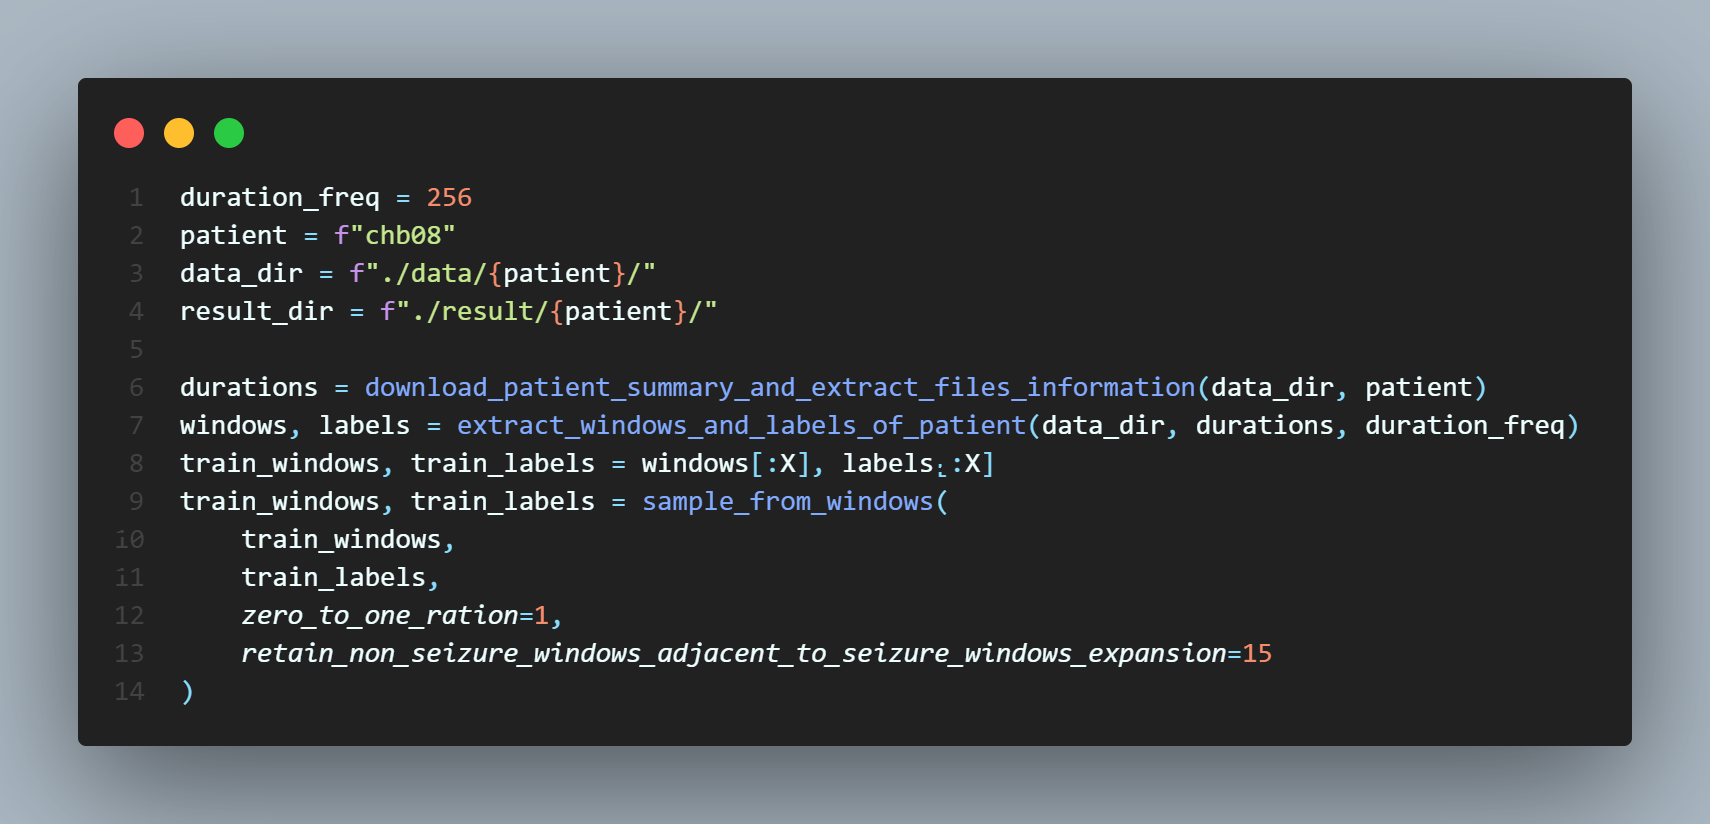
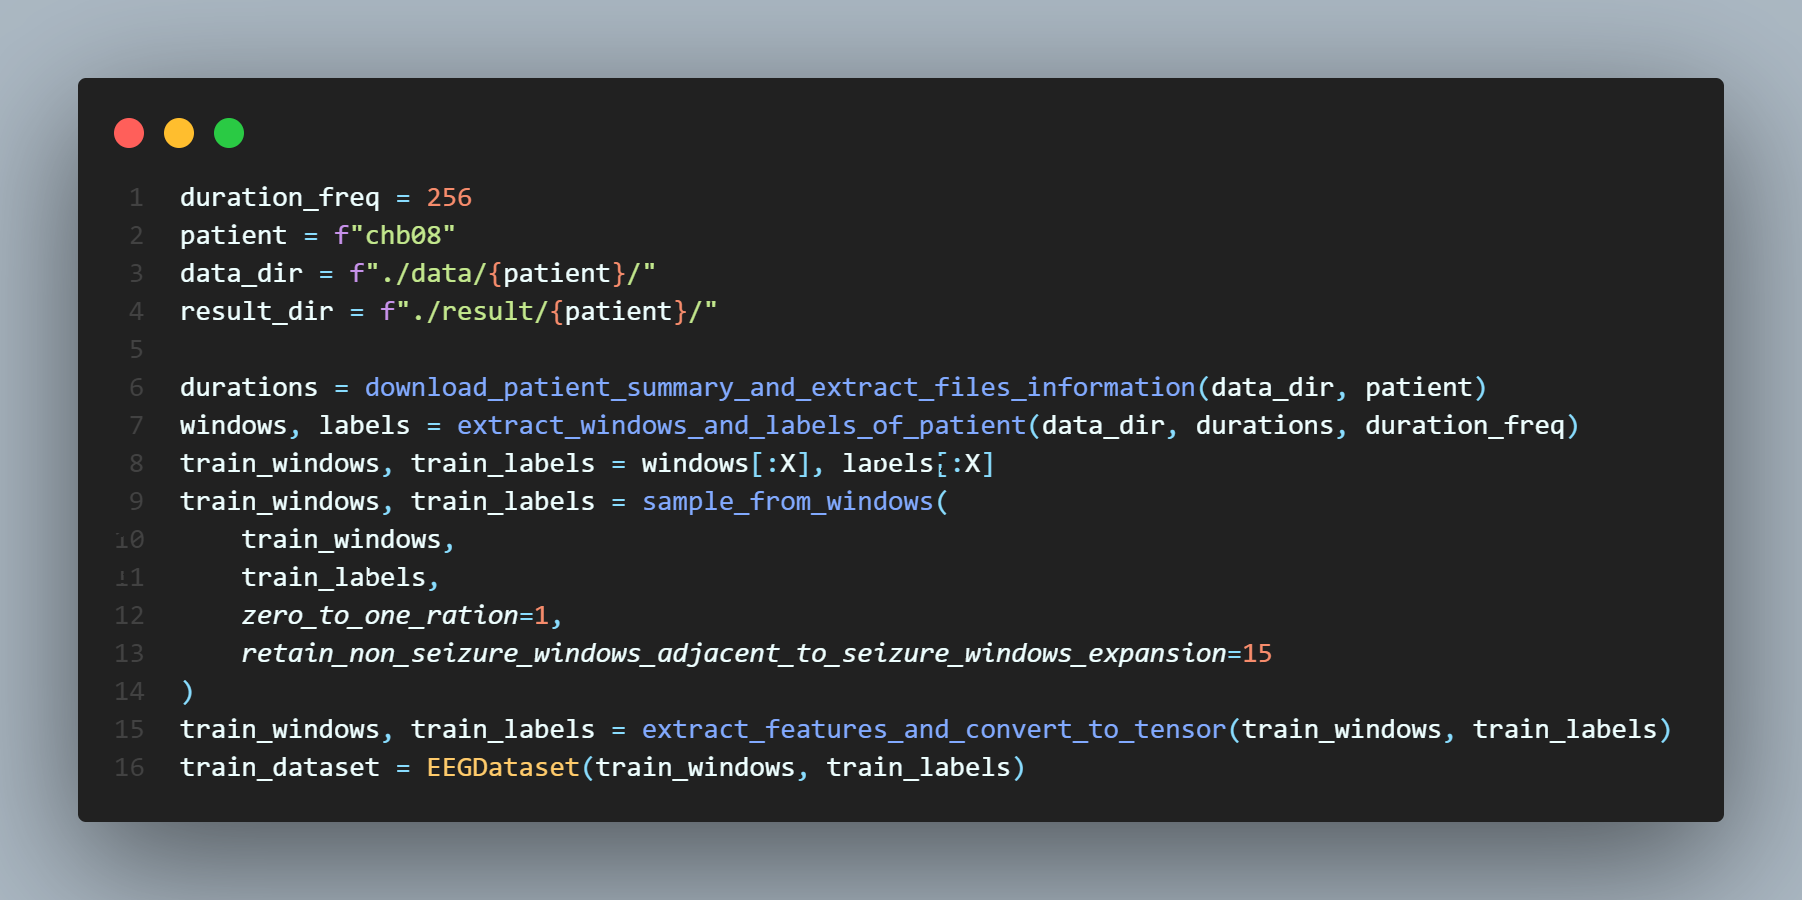
Update ReadMe

diff --git a/README.md b/README.md
@@ -4,11 +4,16 @@ Tutorial: [Link](tutorial.ipynb)
 
 ## Modules
 
-- Working with dataset
+- Dataset + Feature Extraction
     - Download a specific patient files
     - Extract windows and labels of patient (from files)
     - Sample from windows (fro trainset)
         - Retain non-seizure windows adjacent to seizure windows
+    - Feature extraction 
+        - Spectral power and line length
+    - EEGDataset
+        - Pytorch dataset wrapper
     
     Example:
     ![](images/dataset_usage.png)
+
